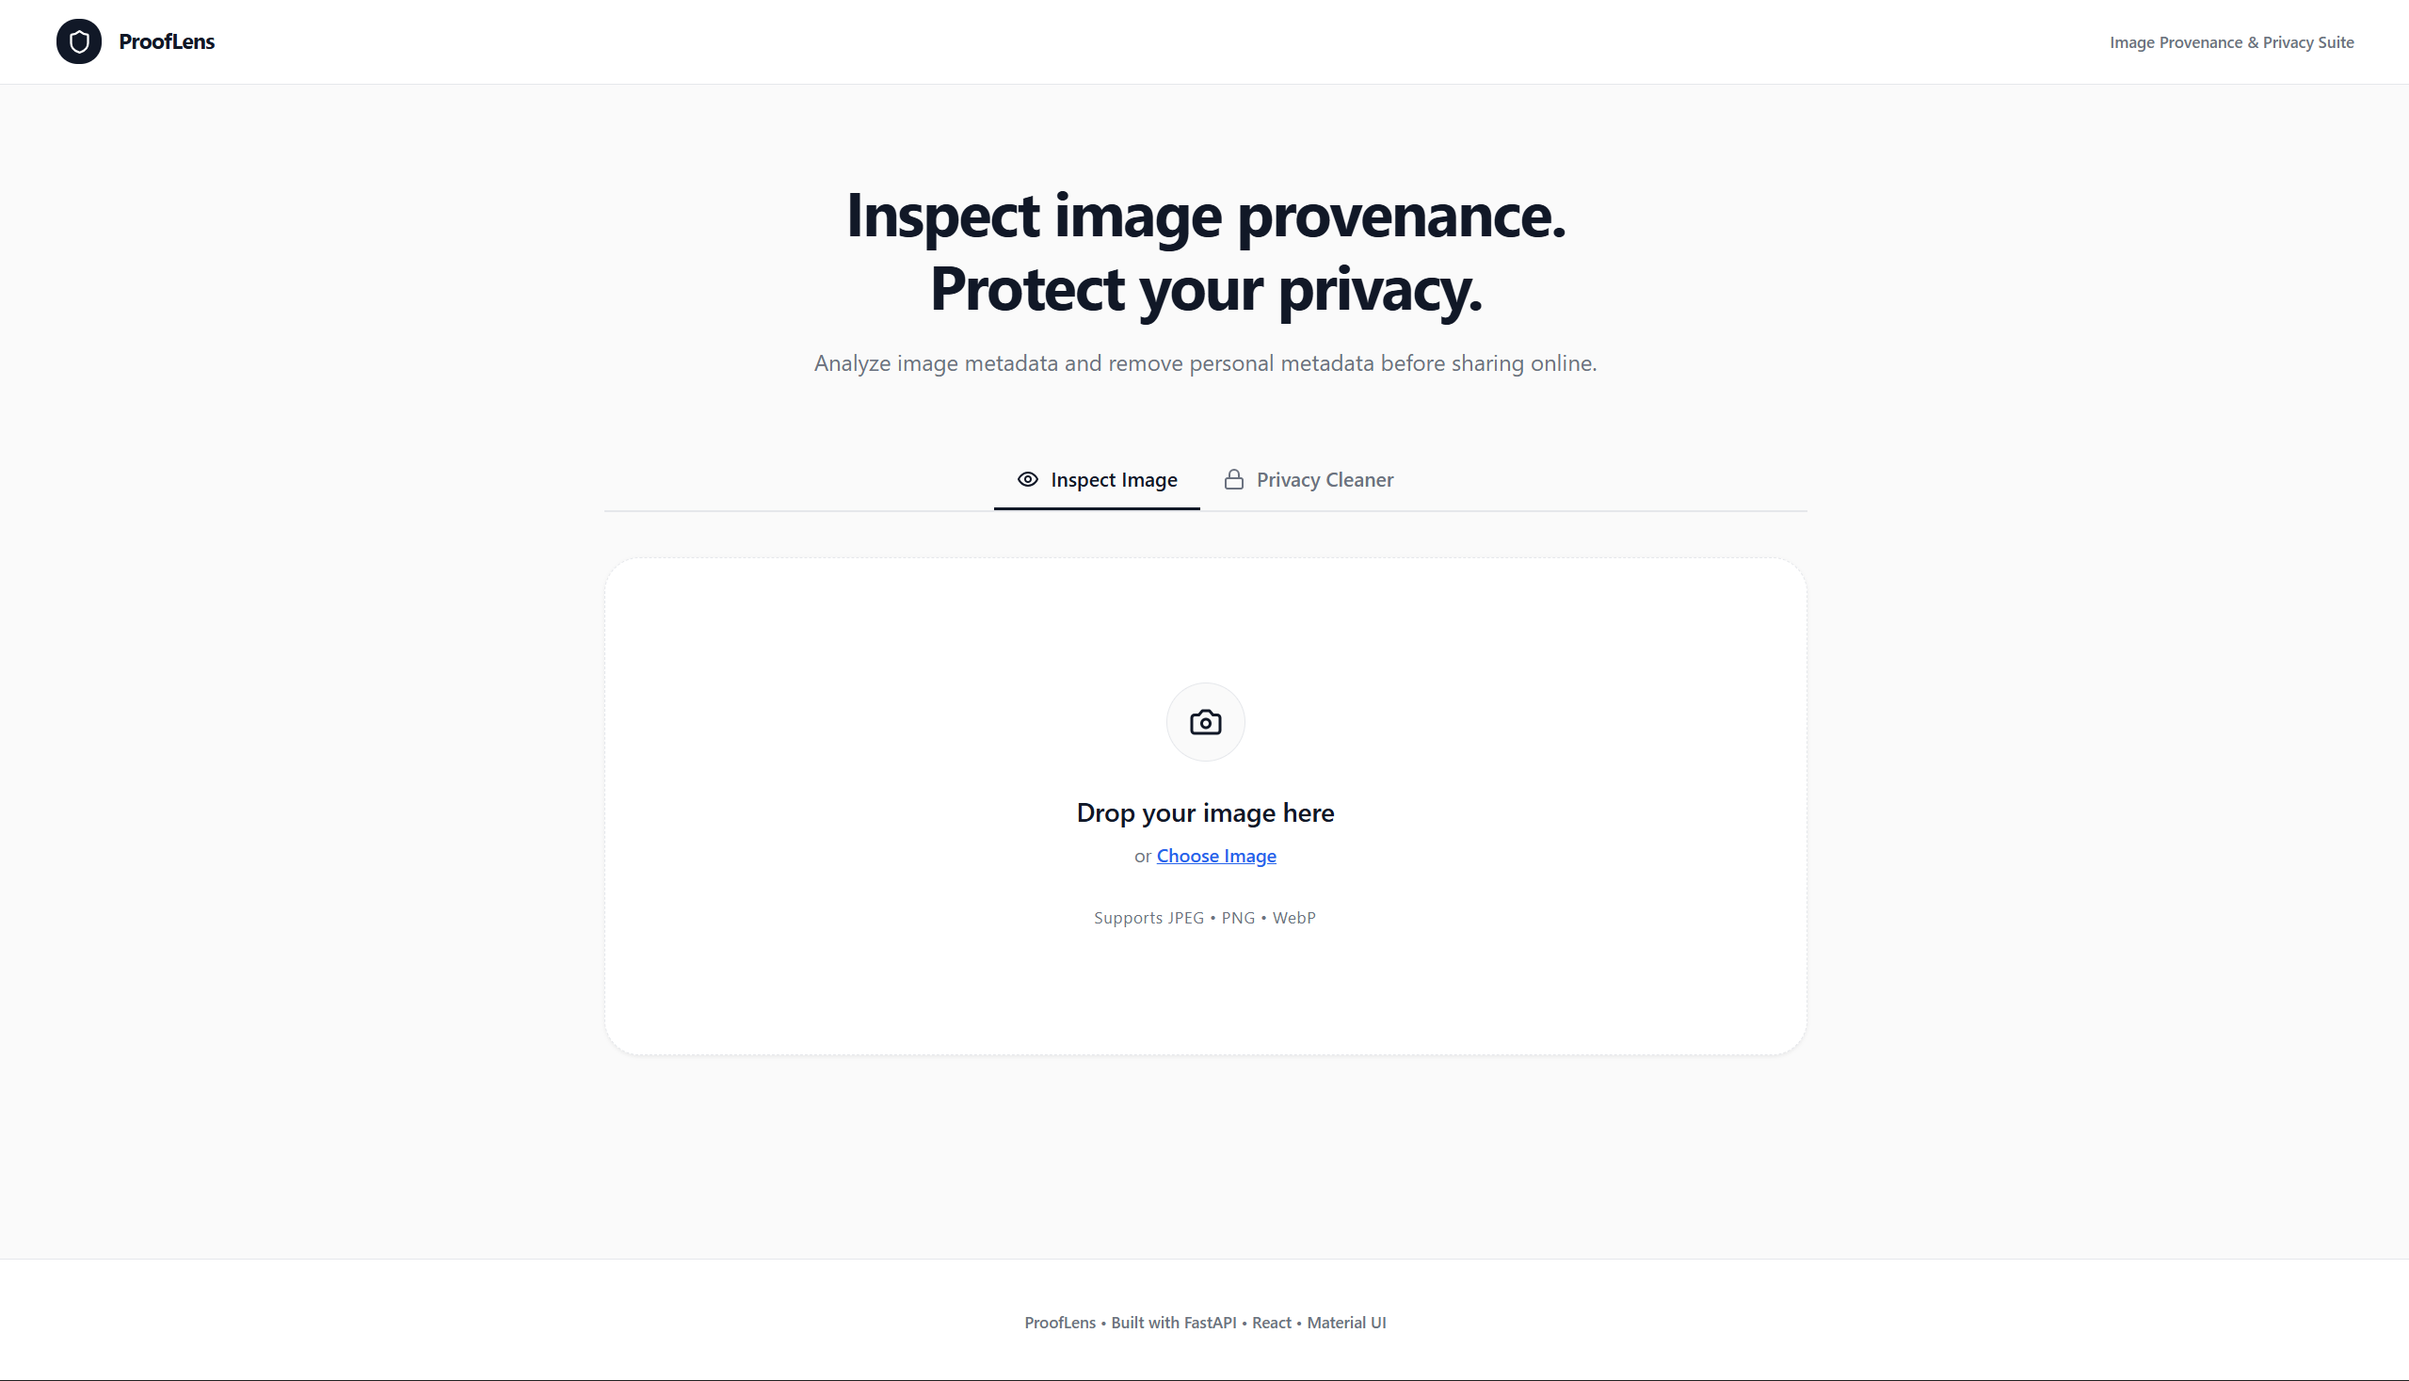
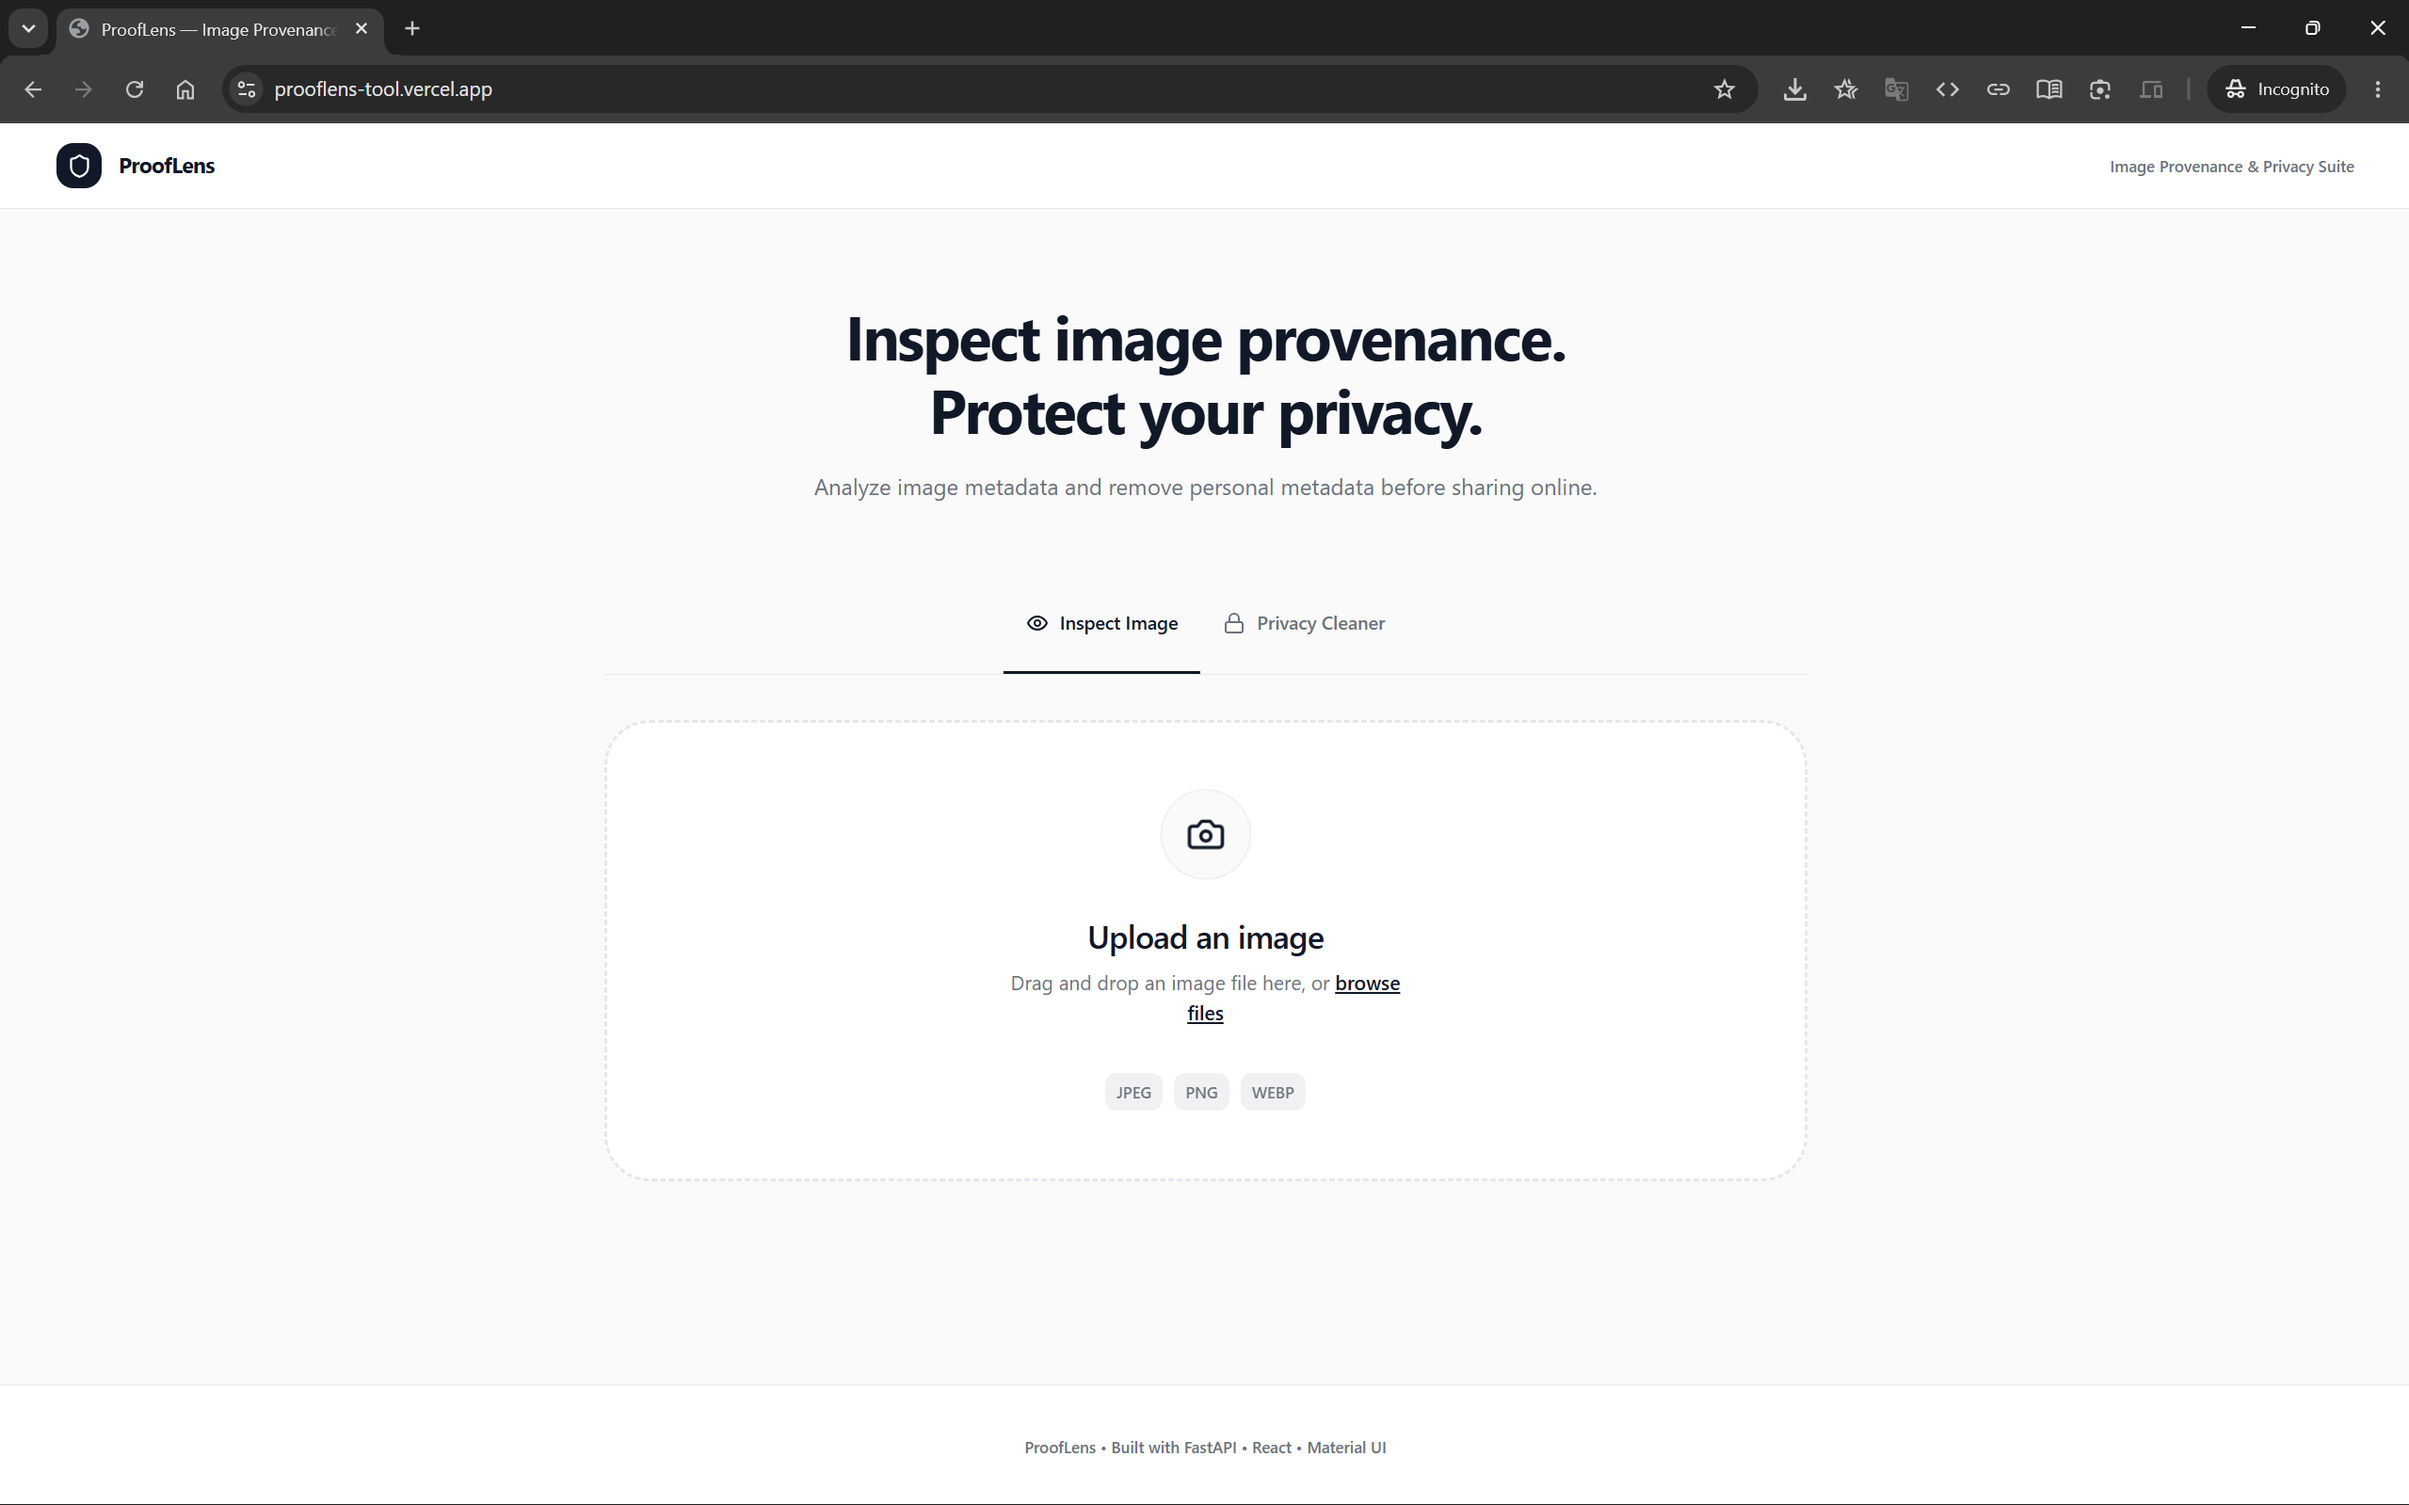
Fix C2PA exception handling for Privacy Cleaner

diff --git a/backend/extractors/c2pa_extractor.py b/backend/extractors/c2pa_extractor.py
@@ -83,15 +83,18 @@ def extract_c2pa(file_bytes: bytes, filename: str) -> C2PAResult:
             signing_time=signing_time,
         )
 
-    except c2pa.Error as exc:
-        if isinstance(exc, c2pa.Error.ManifestNotFound):
+    except c2pa.C2paError as exc:
+        if isinstance(exc, c2pa.C2paError.ManifestNotFound):
             logger.info("No C2PA manifest found in '%s'", filename)
             return C2PAResult(found=False, verified=False, status="no_manifest", manifest_present=False)
-        if isinstance(exc, c2pa.Error.NotSupported):
+        if isinstance(exc, c2pa.C2paError.NotSupported):
             logger.info("C2PA not supported for format of '%s'", filename)
             return C2PAResult(found=False, verified=False, status="unsupported", manifest_present=False)
+        if isinstance(exc, (c2pa.C2paError.Io, c2pa.C2paError.Decoding)):
+            logger.info("C2PA could not read '%s': %s", filename, exc)
+            return C2PAResult(found=False, verified=False, status="no_manifest", manifest_present=False)
 
-        # Crucial fix: the manifest IS present, but parsing failed (e.g., CBOR decode error)
+        # Fallback: the manifest IS present, but parsing failed (e.g., CBOR decode error)
         logger.warning("C2PA extraction error (Parse Error) for '%s': %s", filename, exc)
         return C2PAResult(
             found=True,

diff --git a/backend/config/settings.py b/backend/config/settings.py
@@ -9,10 +9,12 @@ APP_DESCRIPTION: str = (
 HOST: str = "0.0.0.0"
 PORT: int = int(os.getenv("PORT", 8000))
 DEBUG: bool = os.getenv("DEBUG", "False").lower() in ("true", "1", "t")
-CORS_ALLOWED_ORIGINS: List[str] = [
-    "http://localhost:5173",   # Vite dev server (default port)
-    "http://localhost:3000",   # Alternative React port
+CORS_ALLOWED_ORIGINS = [
+    "http://localhost:5173",
     "http://127.0.0.1:5173",
+    "http://localhost:3000",
+
+    "https://prooflens-tool.vercel.app",
 ]
 
 # Append environment variable origins if provided (comma-separated)
